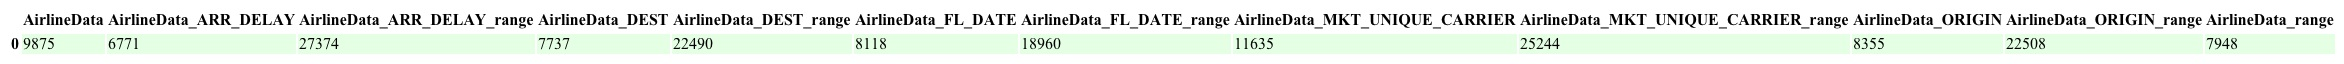
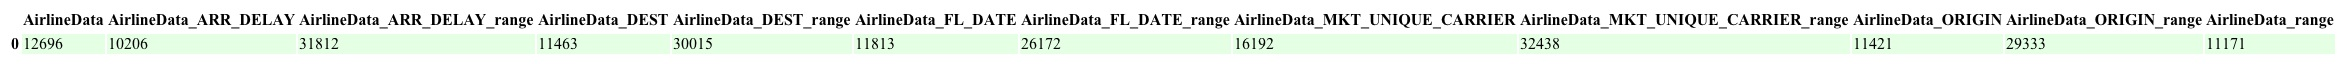
adding more queries

diff --git a/workload.py b/workload.py
@@ -94,7 +94,45 @@ pipeline = [
 }},
 {'$sort': {'avgDelay': -1}}],
 
-[]
+[{'$group' : {
+  '_id': ['$ORIGIN','$MKT_UNIQUE_CARRIER'],
+  'avgDelay' : {'$avg': '$ARR_DELAY'},
+  'maxDelay' : {'$max': '$ARR_DELAY'},
+  'minDelay' : {'$min': '$ARR_DELAY'}
+}},
+{'$project' : {
+  '_id' : 0,
+  'ORIGIN': {'$arrayElemAt' : ['$_id', 0]},
+  'MKT_UNIQUE_CARRIER': {'$arrayElemAt' : ['$_id', 1]},
+  'avgDelay' : '$avgDelay',
+  'maxDelay' : '$maxDelay',
+  'minDelay' : '$minDelay'
+}},
+{'$sort': {'ORIGIN': 1}}],
+
+[{'$group': {
+  '_id': ['$DEST','$MKT_UNIQUE_CARRIER'],
+  'avgDelay' : {'$avg': '$ARR_DELAY'},
+  'maxDelay' : {'$max': '$ARR_DELAY'},
+  'minDelay' : {'$min': '$ARR_DELAY'}
+}},
+{'$project' : {
+  '_id' : 0,
+  'DEST': {'$arrayElemAt' : ['$_id', 0]},
+  'MKT_UNIQUE_CARRIER': {'$arrayElemAt' : ['$_id', 1]},
+  'avgDelay' : '$avgDelay',
+  'maxDelay' : '$maxDelay',
+  'minDelay' : '$minDelay'
+}},
+{'$sort': {'DEST': 1}}],
+
+[{'$match' : { '$and' : [
+  { 'FL_DATE' : {'$gte': datetime(2020,9,1)}},
+  { 'FL_DATE' : {'$lt': datetime(2020,9,16)}}]
+}},
+{'$match' : { 'ARR_DELAY' : { '$gt' : 10}}}],
+
+
 
 ]
 

diff --git a/query_costs.py b/query_costs.py
@@ -20,6 +20,8 @@ if __name__ == "__main__":
         data.append(dct)
     df = pd.DataFrame(data)
 
+    df_total = pd.DataFrame([dict(df.sum())])
+
     list_of_queries= []
     for i in range(len(pipeline)):
         list_of_queries.append('Query '+str(i+1))
@@ -30,3 +32,6 @@ if __name__ == "__main__":
 
     table = Table(df)
     table.getJPG('images/cost.jpg')
+
+    table = Table(df_total)
+    table.getJPG('images/cost_total.jpg')

diff --git a/workload.md b/workload.md
@@ -201,4 +201,71 @@ db.getCollection('AirlineData').aggregate([
 ])
 ```
 
+- Query 14: Max/Min/Avg delay by day of week for each Origin
+
+
+```
+db.getCollection('AirlineData').aggregate([
+{$project: {ORIGIN: '$ORIGIN', day: {$dayOfWeek: '$FL_DATE'}, ARR_DELAY: '$ARR_DELAY'}},
+{$group: {
+    _id : ['$ORIGIN', '$day'],
+    'avgDelay' : {$avg: '$ARR_DELAY'},
+    'maxDelay' : {$max: '$ARR_DELAY'},
+    'minDelay' : {$min: '$ARR_DELAY'}
+}},
+{$project: {'_id':0 ,ORIGIN: {$arrayElemAt : ['$_id', 0]}, day: {$arrayElemAt : ['$_id', 1]},
+            'avgDelay':'$avgDelay', 'maxDelay':'$maxDelay', 'minDelay':'$minDelay'}}
+])
+```
+
+
+- Query 15:  Max/Min/Avg delay by day of week for each Destination
+
+```
+db.getCollection('AirlineData').aggregate([
+{$project: {DEST: '$DEST', day: {$dayOfWeek: '$FL_DATE'}, ARR_DELAY: '$ARR_DELAY'}},
+{$group: {
+    _id : ['$DEST', '$day'],
+    'avgDelay' : {$avg: '$ARR_DELAY'},
+    'maxDelay' : {$max: '$ARR_DELAY'},
+    'minDelay' : {$min: '$ARR_DELAY'}
+}},
+{$project: {'_id':0 ,DEST: {$arrayElemAt : ['$_id', 0]}, day: {$arrayElemAt : ['$_id', 1]},
+            'avgDelay':'$avgDelay', 'maxDelay':'$maxDelay', 'minDelay':'$minDelay'}}
+])
+```
+
+- Query 16: Number of flights by airline
+```
+db.getCollection('AirlineData').aggregate([
+{$group: {_id: '$MKT_UNIQUE_CARRIER',
+    count: {$sum: 1}}}
+])
+```
+
+- Query 17: Number of flights by origin within a range of flight dates
+```
+db.getCollection('AirlineData').aggregate([
+{$match: { $and: [
+    { FL_DATE: {$gte: ISODate('2020-10-01')}}, 
+    { FL_DATE: {$lt: ISODate('2020-10-16')}}]
+}},
+{ $group: {_id: '$ORIGIN',
+            count: {$sum: 1}}}
+])
+```
+
+
+- Query 18: Number of flights by destination within a range of flight dates 
+```
+db.getCollection('AirlineData').aggregate([
+{$match: { $and: [
+    { FL_DATE: {$gte: ISODate('2020-10-01')}}, 
+    { FL_DATE: {$lt: ISODate('2020-10-16')}}]
+}},
+{ $group: {_id: '$DEST',
+            count: {$sum: 1}}}
+])
+```
+
 [Back to Overview](index.md)

diff --git a/runtimes.md b/runtimes.md
@@ -6,4 +6,9 @@ The query runtimes is the estimated time taken for each shard to produce the que
 
 ![Run Times](images/execTime.jpg)
 
+# Total Run time by each partition
+The total run time for executing the workload with each query having the frequency of 1. 
+
+![Total run times](images/execTime_total.jpg)
+
 [Back to Overview](index.md)

diff --git a/costs.md b/costs.md
@@ -4,4 +4,10 @@ The query costs here are the number of documents examined to produce result. Fro
 
 ![Costs](images/cost.jpg)
 
+# Total costs
+
+Total number of documents examined by each partition for executing the query workload.
+
+![Total costs](images/cost_total.jpg)
+
 [Back to Overview](index.md)
